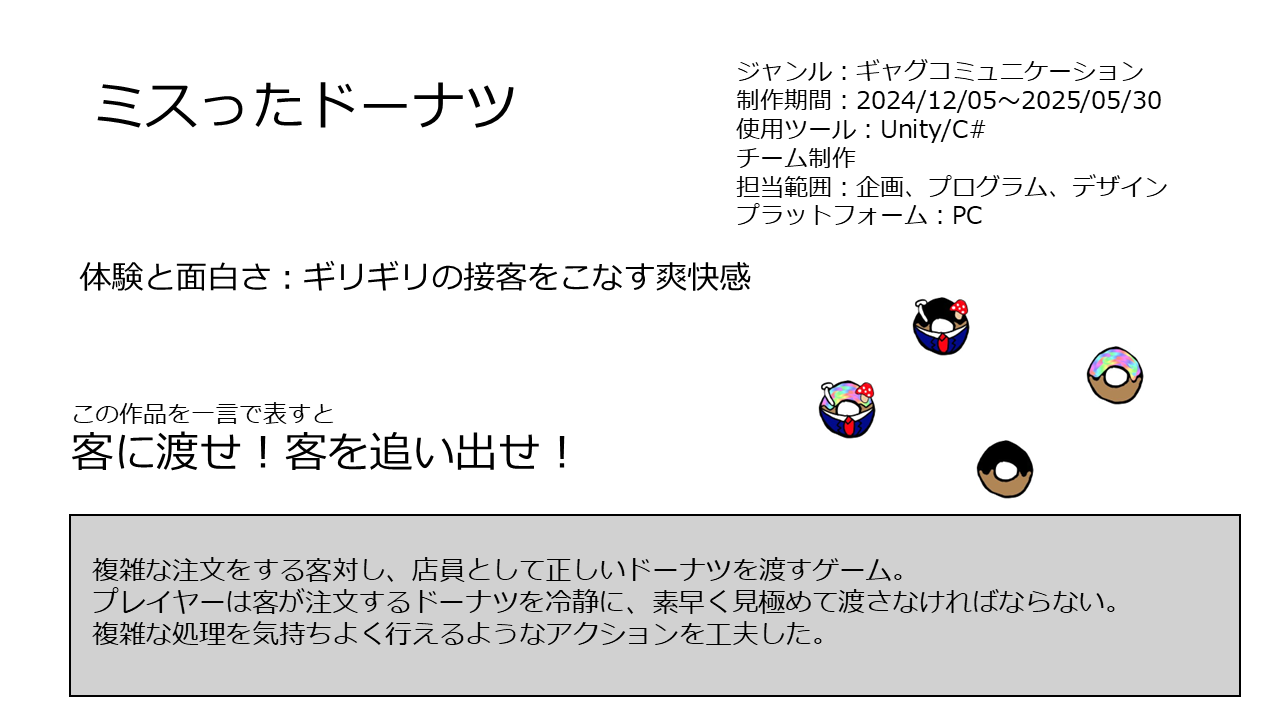
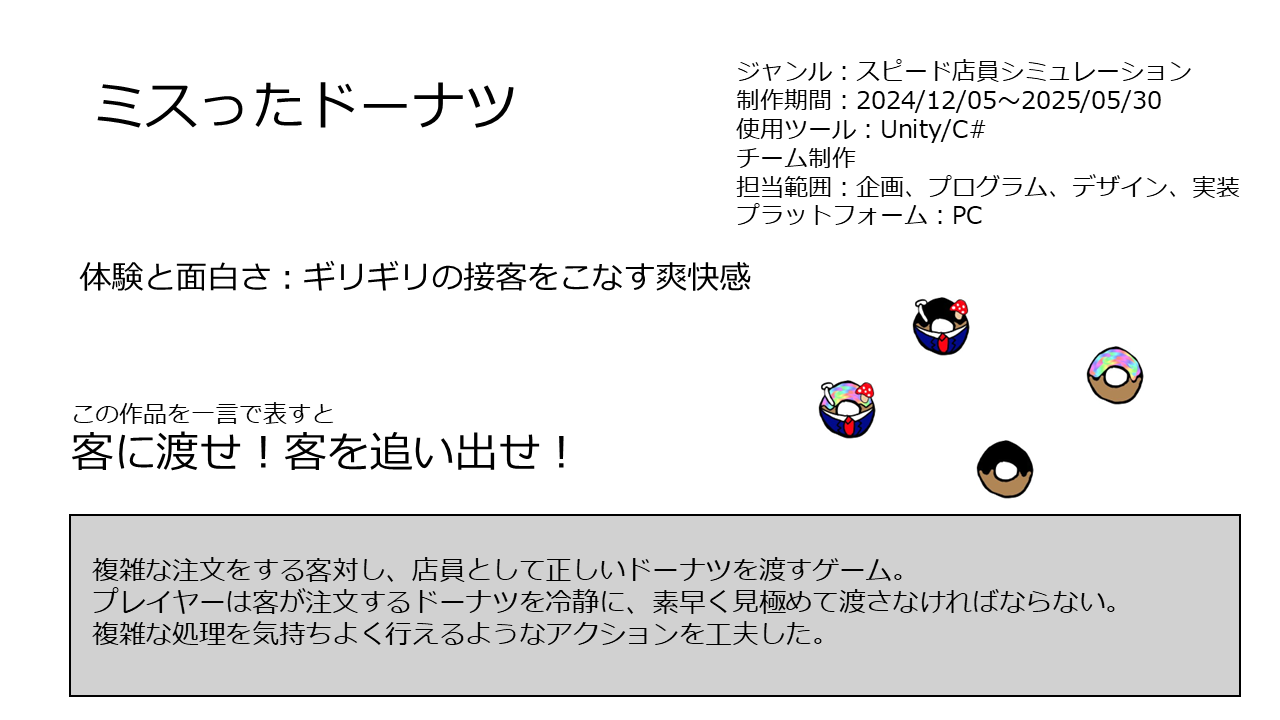
最終完成Ver1

diff --git a/js/main.js b/js/main.js
@@ -869,6 +869,69 @@ document.addEventListener('DOMContentLoaded', async () => {
   const worksBackButtons = document.querySelectorAll('.works-back');
   const worksPreviewToggle = document.getElementById('works-preview-toggle');
   const worksPreviewVideos = Array.from(document.querySelectorAll('.works-node__video'));
+  const worksPreviewDesktopQuery = window.matchMedia('(min-width: 769px)');
+
+  const resetWorksPreviewFrame = (video) => {
+    const frame = video.closest('.works-node__image-wrap');
+    if (!frame) return;
+    frame.classList.remove('is-aspect-ready');
+    frame.style.removeProperty('--work-preview-frame-width');
+    frame.style.removeProperty('--work-preview-frame-height');
+    frame.style.removeProperty('--work-preview-object-fit');
+  };
+
+  const syncWorksPreviewFrame = (video) => {
+    const frame = video.closest('.works-node__image-wrap');
+    if (!frame) return;
+
+    resetWorksPreviewFrame(video);
+    if (!worksPreviewDesktopQuery.matches || !video.videoWidth || !video.videoHeight) return;
+
+    const defaultRect = frame.getBoundingClientRect();
+    const defaultHeight = defaultRect.height;
+    const maxWidth = defaultRect.width;
+    const videoRatio = video.videoWidth / video.videoHeight;
+    const targetRatio = videoRatio;
+    if (!defaultHeight || !maxWidth || !Number.isFinite(videoRatio)) return;
+
+    const targetWidth = Math.min(maxWidth, defaultHeight * targetRatio);
+    frame.style.setProperty('--work-preview-frame-height', `${defaultHeight}px`);
+    frame.style.setProperty('--work-preview-frame-width', `${targetWidth}px`);
+    frame.style.setProperty('--work-preview-object-fit', 'fill');
+    frame.classList.add('is-aspect-ready');
+  };
+
+  const syncAllWorksPreviewFrames = () => {
+    worksPreviewVideos.forEach(video => syncWorksPreviewFrame(video));
+  };
+
+  worksPreviewVideos.forEach(video => {
+    if (video.readyState >= 1) {
+      syncWorksPreviewFrame(video);
+    } else {
+      video.addEventListener('loadedmetadata', () => syncWorksPreviewFrame(video), { once: true });
+    }
+    if (video.readyState >= 2) {
+      syncWorksPreviewFrame(video);
+    } else {
+      video.addEventListener('loadeddata', () => syncWorksPreviewFrame(video), { once: true });
+    }
+    video.addEventListener('playing', () => {
+      window.setTimeout(() => syncWorksPreviewFrame(video), 240);
+    }, { once: true });
+  });
+
+  let worksPreviewResizeFrame = null;
+  window.addEventListener('resize', () => {
+    if (worksPreviewResizeFrame) cancelAnimationFrame(worksPreviewResizeFrame);
+    worksPreviewResizeFrame = requestAnimationFrame(syncAllWorksPreviewFrames);
+  });
+
+  if (typeof worksPreviewDesktopQuery.addEventListener === 'function') {
+    worksPreviewDesktopQuery.addEventListener('change', syncAllWorksPreviewFrames);
+  } else if (typeof worksPreviewDesktopQuery.addListener === 'function') {
+    worksPreviewDesktopQuery.addListener(syncAllWorksPreviewFrames);
+  }
 
   const getSliderPositions = (viewport, track, slides) => {
     const maxScroll = viewport.scrollWidth - viewport.clientWidth;

diff --git a/css/style.css b/css/style.css
@@ -617,6 +617,10 @@ ul {
   padding: 0 calc(var(--ability-side-rail) + var(--ability-frame-gap));
 }
 
+.about .section__title::after {
+  background: #111111;
+}
+
 .about__overview {
   display: grid;
   grid-template-columns: minmax(280px, 420px) minmax(320px, 1fr);
@@ -1433,17 +1437,22 @@ ul {
 
 .works-node__image-wrap {
   position: relative;
-  display: block;
+  display: flex;
+  align-items: center;
+  justify-content: center;
   aspect-ratio: 16 / 9;
-  border: 2px solid rgba(255, 255, 255, 0.8);
-  background: rgba(255, 255, 255, 0.12);
-  overflow: hidden;
+  background: transparent;
+  overflow: visible;
 }
 
 .works-node__video {
+  display: block;
   width: 100%;
   height: 100%;
-  object-fit: contain;
+  object-fit: var(--work-preview-object-fit, cover);
+  background: transparent;
+  border: 2px solid rgba(255, 255, 255, 0.8);
+  box-sizing: border-box;
   transition: transform var(--transition);
 }
 
@@ -1632,14 +1641,20 @@ ul {
   }
 
   .works-node__image-wrap {
-    width: 100%;
+    width: var(--work-preview-frame-width, 100%);
+    max-width: 100%;
+    height: var(--work-preview-frame-height, auto);
+    justify-self: center;
     aspect-ratio: 16 / 9;
-    border: 3px solid #0a1e2b;
-    background: #17667f;
+    background: transparent;
+  }
+
+  .works-node__image-wrap.is-aspect-ready {
+    aspect-ratio: auto;
   }
 
   .works-node__video {
-    background: #17667f;
+    border: 5px solid #0a1e2b;
   }
 
   .works-node__title {